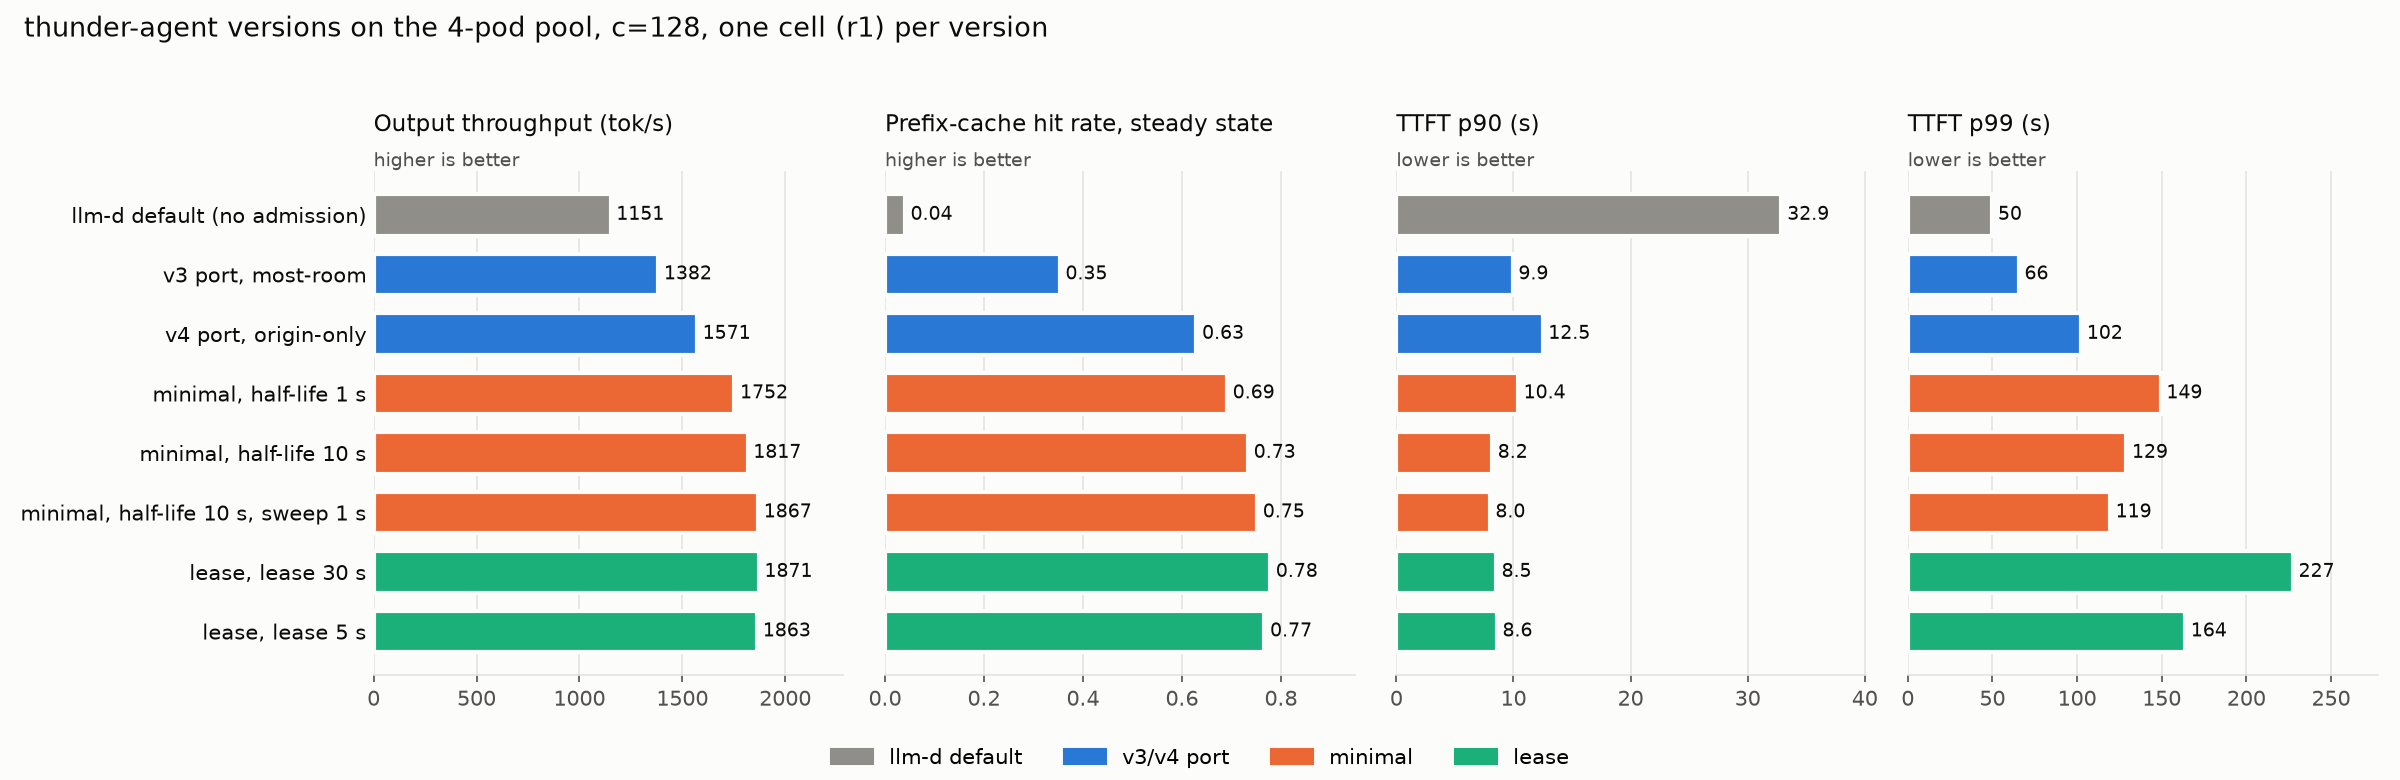
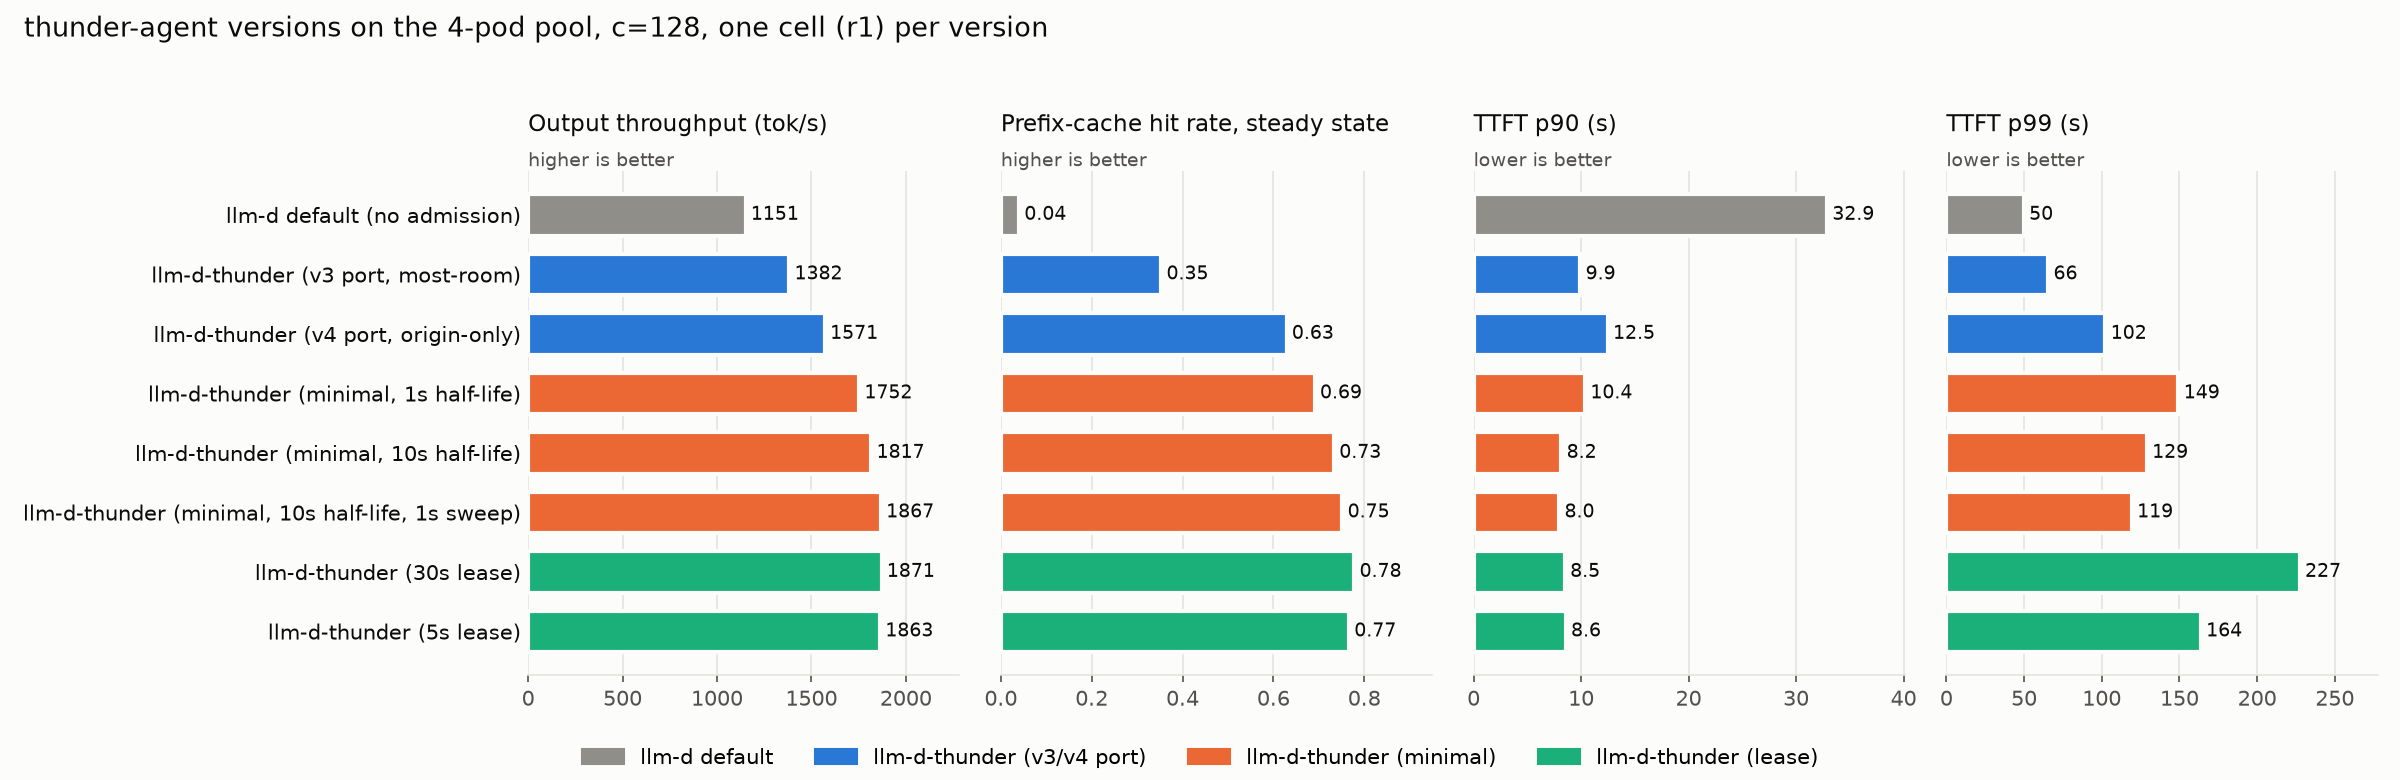
Versions report: label thunder versions as llm-d-thunder

diff --git a/versions-report/make_report.py b/versions-report/make_report.py
@@ -39,19 +39,19 @@ S17 = ROOT / "17-thunder-lease-pool" / "results" / "rep-20260928-115246-c128-t19
 # families take categorical slots 1-3 of the validated reference palette.
 FAMILIES = {
     "llm-d default": "#8f8e89",
-    "v3/v4 port": "#2a78d6",
-    "minimal": "#eb6834",
-    "lease": "#1baf7a",
+    "llm-d-thunder (v3/v4 port)": "#2a78d6",
+    "llm-d-thunder (minimal)": "#eb6834",
+    "llm-d-thunder (lease)": "#1baf7a",
 }
 VERSIONS = [
     ("llm-d default", "llm-d default (no admission)", S13 / "epp-baseline-c128"),
-    ("v3/v4 port", "v3 port, most-room", S13 / "epp-thunder-c128"),
-    ("v3/v4 port", "v4 port, origin-only", S13 / "epp-thunder-origin-c128"),
-    ("minimal", "minimal, half-life 1 s", S16 / "epp-thunder-min-c128"),
-    ("minimal", "minimal, half-life 10 s", S16 / "epp-thunder-min-hl10-c128"),
-    ("minimal", "minimal, half-life 10 s, sweep 1 s", S16 / "epp-thunder-min-hl10-s1-c128"),
-    ("lease", "lease, lease 30 s", S17 / "epp-thunder-lease-c128"),
-    ("lease", "lease, lease 5 s", S17 / "epp-thunder-lease5-c128"),
+    ("llm-d-thunder (v3/v4 port)", "llm-d-thunder (v3 port, most-room)", S13 / "epp-thunder-c128"),
+    ("llm-d-thunder (v3/v4 port)", "llm-d-thunder (v4 port, origin-only)", S13 / "epp-thunder-origin-c128"),
+    ("llm-d-thunder (minimal)", "llm-d-thunder (minimal, 1s half-life)", S16 / "epp-thunder-min-c128"),
+    ("llm-d-thunder (minimal)", "llm-d-thunder (minimal, 10s half-life)", S16 / "epp-thunder-min-hl10-c128"),
+    ("llm-d-thunder (minimal)", "llm-d-thunder (minimal, 10s half-life, 1s sweep)", S16 / "epp-thunder-min-hl10-s1-c128"),
+    ("llm-d-thunder (lease)", "llm-d-thunder (30s lease)", S17 / "epp-thunder-lease-c128"),
+    ("llm-d-thunder (lease)", "llm-d-thunder (5s lease)", S17 / "epp-thunder-lease5-c128"),
 ]
 PANELS = [
     ("throughput", "Output throughput (tok/s)", "higher is better", "{:.0f}", 1),

diff --git a/versions-report/README.md b/versions-report/README.md
@@ -14,13 +14,13 @@ The names below match the labels in the figure and the table.
 
 - **llm-d default (no admission)**: upstream llm-d-router scheduling, with no thunder-agent. Every request is sent at once to the pod with the best mix of short queue, free KV cache and prefix-cache match. Nothing is held back, so the KV cache of every session competes on every pod.
 - **upstream Python ThunderAgent**: the original ThunderAgent from the paper, a separate proxy in front of vLLM. It was tested only on single pods in this repo, so it is not in the figure.
-- **v3 port, most-room**: the first port of ThunderAgent into llm-d-router (commit `ae371354`), faithful to upstream. Admission counts idle sessions as shrinking over time (idle decay), a sweep every 5 s pauses sessions when a pod is over its limit, and a paused session comes back on its own pod if it fits there, otherwise on the pod with the most room.
-- **v4 port, origin-only**: v3 with one change (`8ee881c2`): a paused session comes back **only** on its own pod, where its KV cache still is.
-- **minimal**: a smaller rewrite of v4 (`33dde5d2`, step 16). Same idea with fewer parts: origin-only is the only placement, and the sweep pauses only idle sessions. Three settings are shown:
-  - **half-life 1 s**: the default; an idle session counts half after 1 s.
-  - **half-life 10 s**: idle sessions keep counting longer.
-  - **half-life 10 s, sweep 1 s**: the same, with the pause sweep every 1 s instead of 5 s.
-- **lease**: the minimal gate with a different way for idle sessions to give up room (`20e3b1ee`, step 17). There is no decay and no sweep. When a waiting session does not fit, idle sessions are paused right then, longest idle first, but only those idle for at least the **idle lease**; when an admitted session's own turn outgrows its pod, any idle session may give up room. Two settings are shown: **lease 30 s** (the default) and **lease 5 s**.
+- **llm-d-thunder (v3 port, most-room)**: the first port of ThunderAgent into llm-d-router (commit `ae371354`), faithful to upstream. Admission counts idle sessions as shrinking over time (idle decay), a sweep every 5 s pauses sessions when a pod is over its limit, and a paused session comes back on its own pod if it fits there, otherwise on the pod with the most room.
+- **llm-d-thunder (v4 port, origin-only)**: v3 with one change (`8ee881c2`): a paused session comes back **only** on its own pod, where its KV cache still is.
+- **llm-d-thunder (minimal)**: a smaller rewrite of v4 (`33dde5d2`, step 16). Same idea with fewer parts: origin-only is the only placement, and the sweep pauses only idle sessions. Three settings are shown:
+  - **1s half-life**: the default; an idle session counts half after 1 s.
+  - **10s half-life**: idle sessions keep counting longer.
+  - **10s half-life, 1s sweep**: the same, with the pause sweep every 1 s instead of 5 s.
+- **llm-d-thunder (lease)**: the minimal gate with a different way for idle sessions to give up room (`20e3b1ee`, step 17). There is no decay and no sweep. When a waiting session does not fit, idle sessions are paused right then, longest idle first, but only those idle for at least the **idle lease**; when an admitted session's own turn outgrows its pod, any idle session may give up room. Two settings are shown: **llm-d-thunder (30s lease)** (the default) and **llm-d-thunder (5s lease)**.
   - Later builds of the same gate are not in the figure. It was rebuilt on another ledger (`1a98a6c5`, step 18), which counted only one in-flight request per session and fell to 1477 tok/s; the fix that counts every in-flight request (`44544c04`, step 19) brought it back to 2042 tok/s and hit rate 0.844, in line with the lease 30 s version shown here.
 
 ### Terms
@@ -65,7 +65,7 @@ Common to every thunder-agent version in llm-d-router: a session (agent trajecto
 
 Protocol for every cell: one EPP over the four vLLM pods (Qwen3-Coder-30B-A3B-FP8, TP=2, 2,237,040 KV tokens each), prefix-cache reset and a fresh EPP per cell, c=128 (32 sessions per pod), weka trace replay, 30 min window with 10 min warm-up, client timeout 1900 s, load generator with the permit fix.
 
-| metric | llm-d default (no admission) | v3 port, most-room | v4 port, origin-only | minimal, half-life 1 s | minimal, half-life 10 s | minimal, half-life 10 s, sweep 1 s | lease, lease 30 s | lease, lease 5 s |
+| metric | llm-d default (no admission) | llm-d-thunder (v3 port, most-room) | llm-d-thunder (v4 port, origin-only) | llm-d-thunder (minimal, 1s half-life) | llm-d-thunder (minimal, 10s half-life) | llm-d-thunder (minimal, 10s half-life, 1s sweep) | llm-d-thunder (30s lease) | llm-d-thunder (5s lease) |
 |---|---|---|---|---|---|---|---|---|
 | output throughput (tok/s) | 1151 | 1382 | 1571 | 1752 | 1817 | 1867 | 1871 | 1863 |
 | steady-state hit rate | 0.040 | 0.353 | 0.629 | 0.691 | 0.733 | 0.752 | 0.778 | 0.766 |

diff --git a/versions-report/versions-table.md b/versions-report/versions-table.md
@@ -1,4 +1,4 @@
-| metric | llm-d default (no admission) | v3 port, most-room | v4 port, origin-only | minimal, half-life 1 s | minimal, half-life 10 s | minimal, half-life 10 s, sweep 1 s | lease, lease 30 s | lease, lease 5 s |
+| metric | llm-d default (no admission) | llm-d-thunder (v3 port, most-room) | llm-d-thunder (v4 port, origin-only) | llm-d-thunder (minimal, 1s half-life) | llm-d-thunder (minimal, 10s half-life) | llm-d-thunder (minimal, 10s half-life, 1s sweep) | llm-d-thunder (30s lease) | llm-d-thunder (5s lease) |
 |---|---|---|---|---|---|---|---|---|
 | output throughput (tok/s) | 1151 | 1382 | 1571 | 1752 | 1817 | 1867 | 1871 | 1863 |
 | steady-state hit rate | 0.040 | 0.353 | 0.629 | 0.691 | 0.733 | 0.752 | 0.778 | 0.766 |
